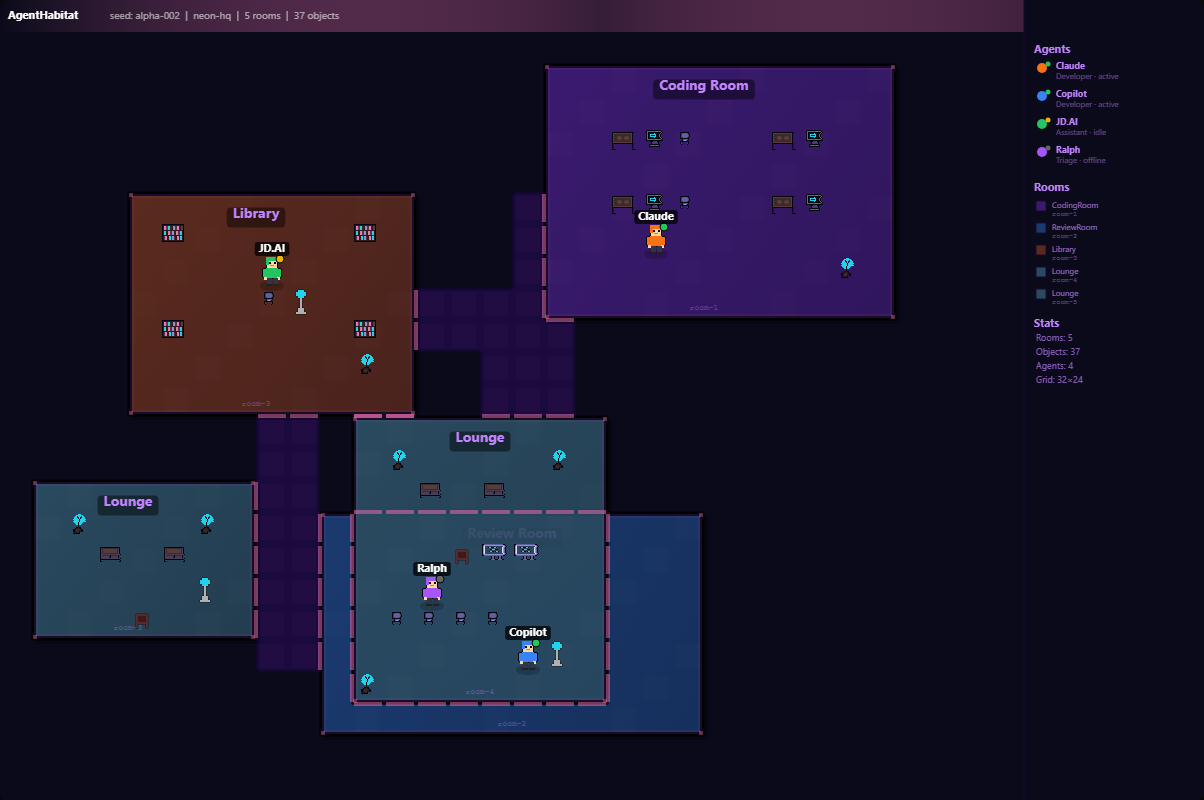
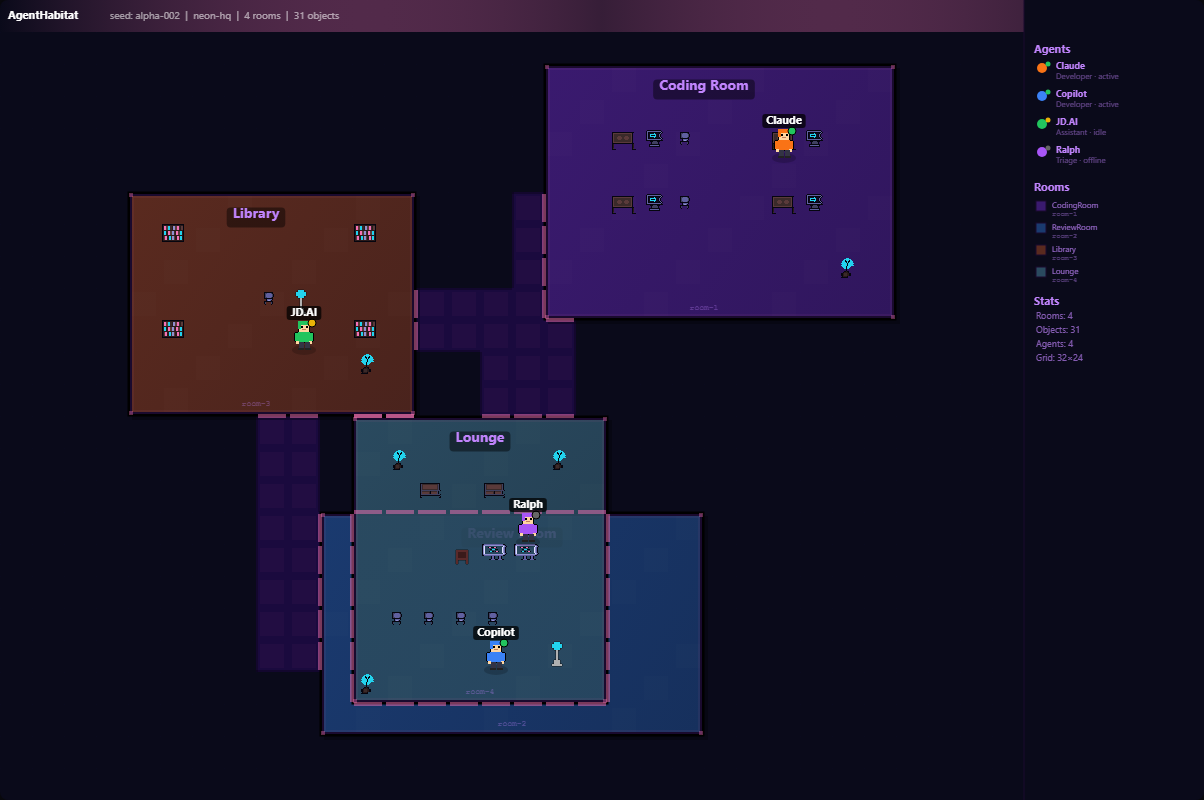
fix: increase room padding to 3 tiles — zero-tolerance overlap policy
Increased overlap padding from 2 to 3 tiles between rooms to ensure
no visual crowding or stacking. Overlap test still passes.

diff --git a/tools/worldgen-renderer.html b/tools/worldgen-renderer.html
@@ -177,8 +177,8 @@ function generateWorld(seed, opts) {
 }
 
 function overlap(a, b) {
-  // Add 2-tile padding between rooms to prevent visual crowding
-  const pad = 2;
+  // Add 3-tile padding between rooms (zero-tolerance overlap policy)
+  const pad = 3;
   return a.x - pad < b.x + b.w && a.x + a.w + pad > b.x && a.y - pad < b.y + b.h && a.y + a.h + pad > b.y;
 }
 function carveH(x1, x2, y, w, opts) {
